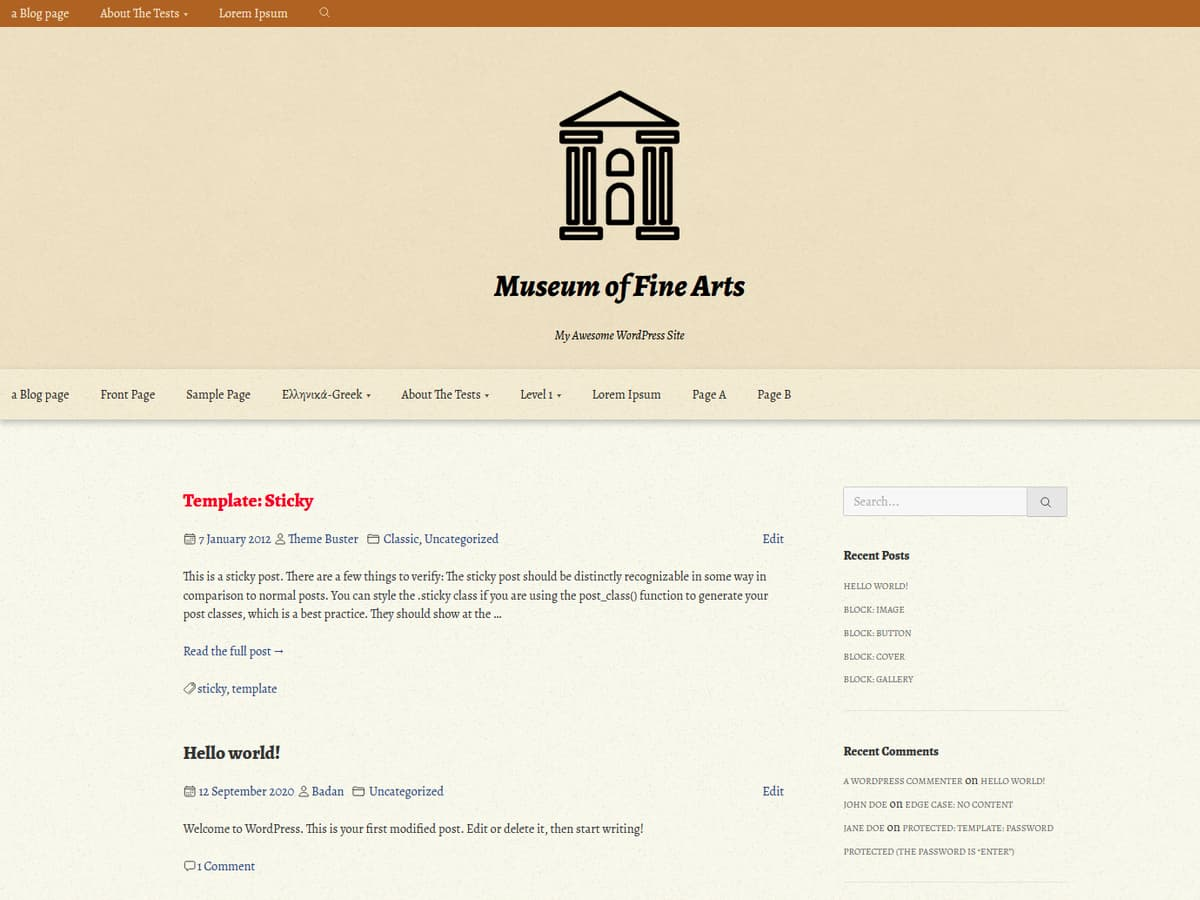
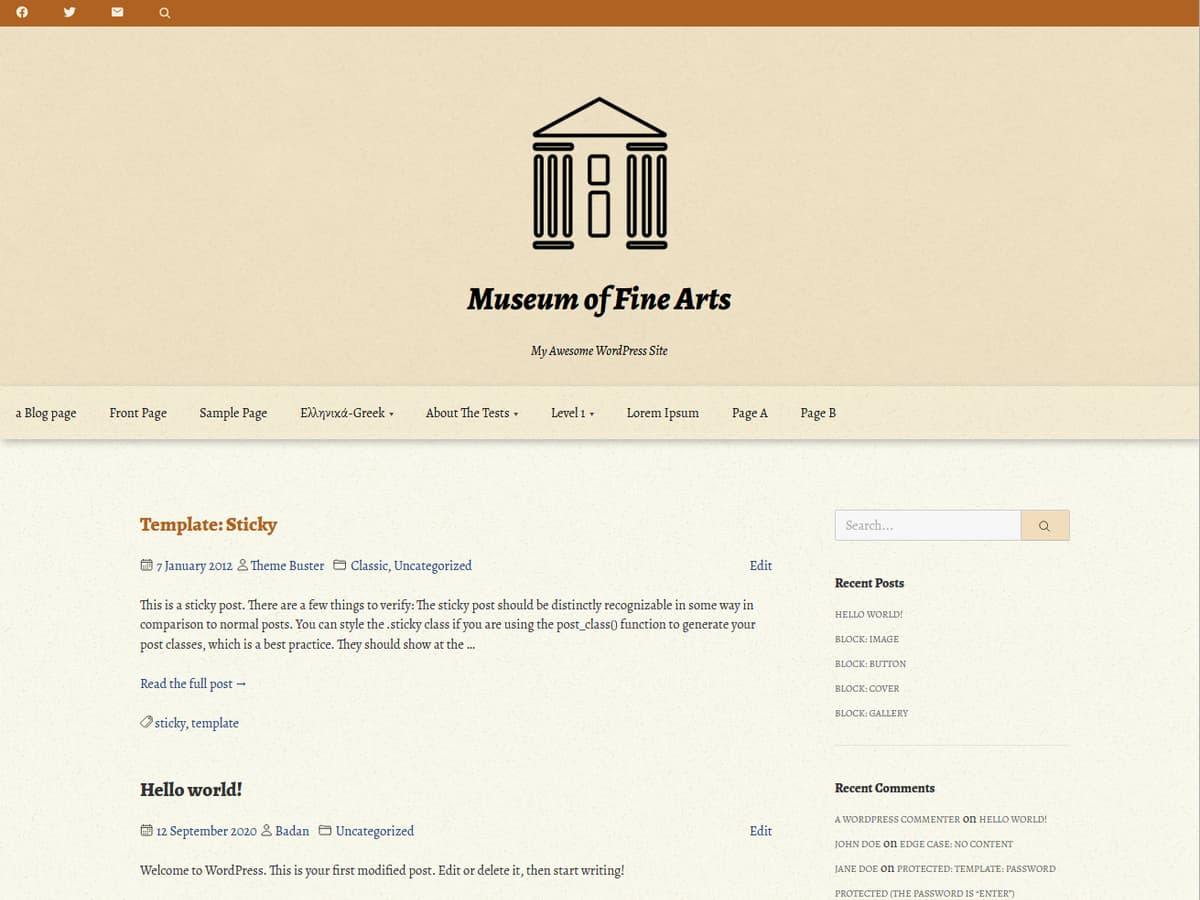
add css, change screnshotm, pass theme sniffer test

diff --git a/style-rtl.css b/style-rtl.css
@@ -1059,6 +1059,10 @@ input[type="search"]:focus::-webkit-search-cancel-button {
     padding: 0px 20px;
     margin: 5px 0;
   }
+  .main-nav {
+    display: flex;
+    justify-content: center;
+  }
 }
 
 /* Wrapper */

diff --git a/static/css/navigation.css b/static/css/navigation.css
@@ -234,4 +234,9 @@
     top: 0;
     bottom: auto;
   }
+
+  .main-nav {
+    display: flex;
+    justify-content: center;
+  }
 }

diff --git a/inc/custom-header.php b/inc/custom-header.php
@@ -48,15 +48,6 @@ if ( ! function_exists( 'muzeum_header_style' ) ) :
 	function muzeum_header_style() {
 		$header_text_color = get_header_textcolor();
 
-		/*
-		 * If no custom options for text are set, let's bail.
-		 * get_header_textcolor() options: Any hex value, 'blank' to hide text. Default: add_theme_support( 'custom-header' ).
-		 */
-		if ( get_theme_support( 'custom-header', 'default-text-color' ) === $header_text_color ) {
-			//return;
-		}
-
-		// If we get this far, we have custom styles. Let's do this.
 		?>
 		<style type="text/css">
 		<?php if (has_header_image()) : ?>

diff --git a/template-parts/content-page.php b/template-parts/content-page.php
@@ -12,7 +12,7 @@
 <article id="post-<?php the_ID(); ?>" <?php post_class(); ?>>
 <?php muzeum_post_thumbnail(); ?>
 	<header class="entry-header">
-	<?php if ( museum_show_breadcrumbs() ) : ?>
+	<?php if ( muzeum_show_breadcrumbs() ) : ?>
 		<div class="breadcrumb"><?php muzeum_breadcrumbs();?></div>
 	<?php endif;
 		the_title( '<h1 class="entry-title">', '</h1>' ); ?>

diff --git a/template-parts/content.php b/template-parts/content.php
@@ -12,7 +12,7 @@
 <article id="post-<?php the_ID(); ?>" <?php post_class(); ?>>
 <?php muzeum_post_thumbnail('large'); ?>
 	<header class="entry-header">
-	<?php if ( museum_show_breadcrumbs() ) : ?>
+	<?php if ( muzeum_show_breadcrumbs() ) : ?>
 		<div class="breadcrumb"><?php muzeum_breadcrumbs();?></div>
 	<?php endif;
 		if ( is_singular() ) :

diff --git a/inc/customizer-helper.php b/inc/customizer-helper.php
@@ -86,7 +86,7 @@ function muzeum_brightness( $hex, $steps ) {
 }
 
 /* Check to show or hide breadcrumbs */
-function museum_show_breadcrumbs(){
+function muzeum_show_breadcrumbs(){
 	
 	return is_single() ? get_theme_mod( 'show_breadcrumbs', 1 ) : get_theme_mod( 'show_page_breadcrumbs', 1 );
 
